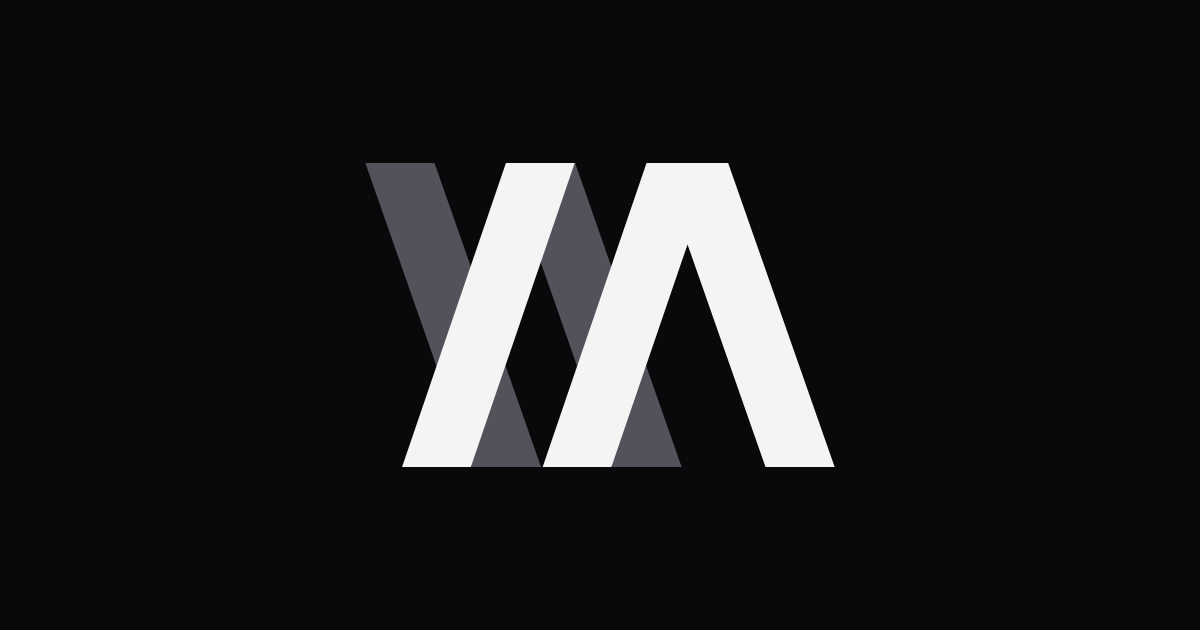
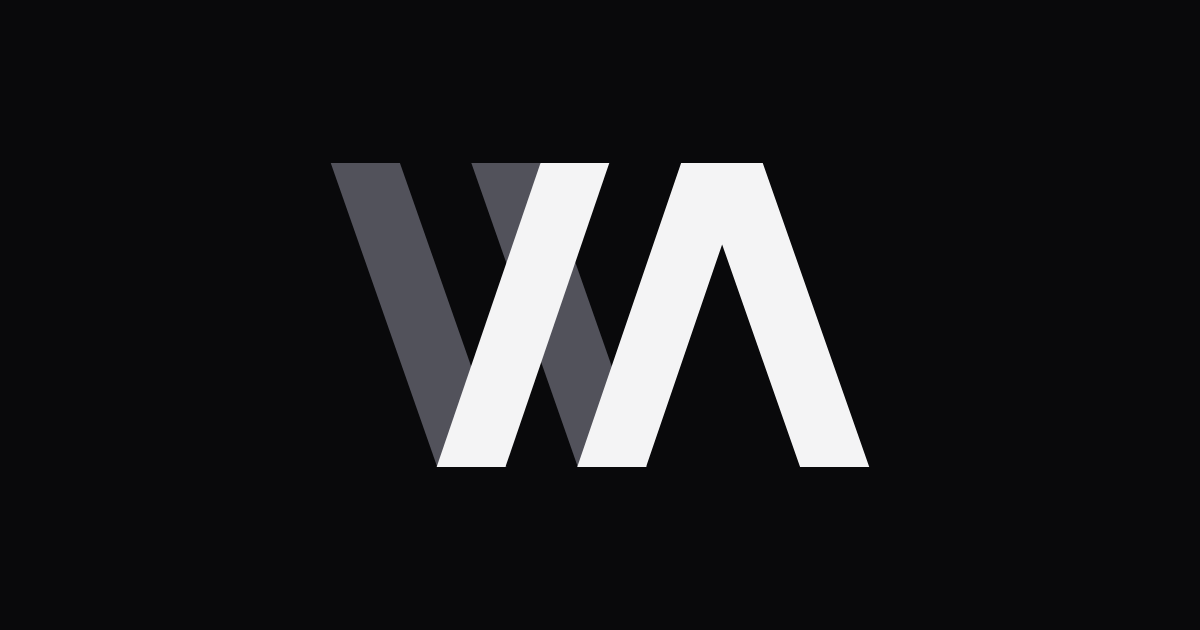
move silent backslashes to the 755 position
Each silent backslash now touches the next lit slash at its top
corner instead of sharing its top. Mark is 2639 wide. Updates the
header logo, favicon (svg and ico), apple touch icon, OG image and
assets/logo/mark.svg.

Claude-Session: https://claude.ai/code/session_01HAUFqXonfDSzPbRtN7WWeT

Changed region(s): [[0.2775, 0.2413, 0.74, 0.754]]

diff --git a/index.html b/index.html
@@ -39,9 +39,9 @@
           <div class="flex justify-center">
             <svg
               class="h-28 w-auto text-zinc-100"
-              width="173"
+              width="198"
               height="112"
-              viewBox="0 0 2300 1490"
+              viewBox="0 0 2639 1490"
               fill="currentColor"
               role="img"
               aria-label="With Artifact"
@@ -49,8 +49,8 @@
             >
               <path fill-opacity="0.3" d="M0 0H339L861 1490H522Z" />
               <path fill-opacity="0.3" d="M689 0H1028L1550 1490H1211Z" />
-              <path d="M180 1490H517L1026 0H689Z" />
-              <path d="M869 1490H1206L1579 399L1961 1490H2300L1778 0H1378Z" />
+              <path d="M519 1490H856L1365 0H1028Z" />
+              <path d="M1208 1490H1545L1918 399L2300 1490H2639L2117 0H1717Z" />
             </svg>
           </div>
 
